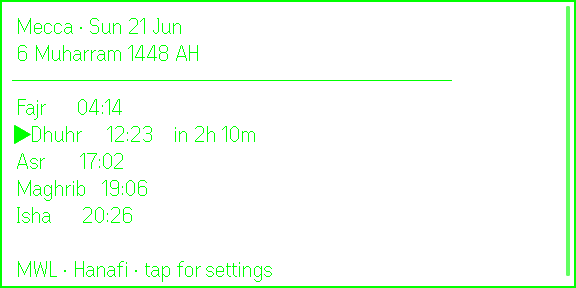
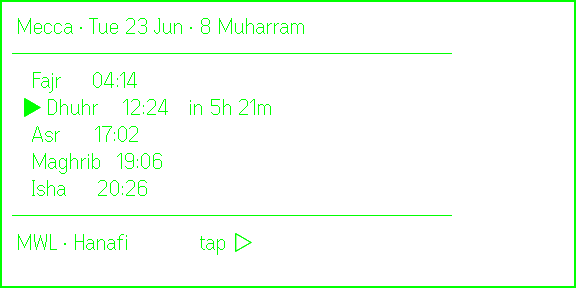
feat(salah): refine glasses UI — consolidated header, framed list, refreshed screenshots

diff --git a/src/format.ts b/src/format.ts
@@ -10,6 +10,14 @@ const NAME_COLUMN = 10
 /** How many rows to show at once in a picker (keeps the highlight on-screen). */
 export const PICKER_WINDOW = 5
 
+/** 4-char row prefix: indent + cursor or indent + blanks. Keeps every row's label aligned. */
+const CURSOR_ON = '  ▶ '
+const CURSOR_OFF = '    '
+/** Indented horizontal divider that visually frames each view. */
+const RULE = '─'.repeat(22)
+/** Approximate target width for left/right footer alignment (font isn't monospaced). */
+const FOOTER_WIDTH = 32
+
 /** Absolute instant → "HH:mm" in the given IANA timezone. */
 export function formatTime(instant: Date, timeZone: string): string {
   return new Intl.DateTimeFormat('en-GB', {
@@ -52,35 +60,54 @@ export function formatHijriDate(instant: Date, timeZone: string): string {
   return `${get('day')} ${get('month')} ${get('year')} AH`
 }
 
-/** Horizontal divider sized to span one line without wrapping in the firmware font. */
-const RULE = '─'.repeat(22)
+/** Hijri "day MonthName" (no year), e.g. "8 Muharram" — fits the consolidated header. */
+export function formatHijriShort(instant: Date, timeZone: string): string {
+  const parts = new Intl.DateTimeFormat('en-US-u-ca-islamic-umalqura', {
+    timeZone,
+    day: 'numeric',
+    month: 'long',
+  }).formatToParts(instant)
+  const get = (t: string) => parts.find((p) => p.type === t)?.value ?? ''
+  return `${get('day')} ${get('month')}`
+}
 
-/** The main prayer-list view: dated header, the five prayers (next marked), footer. */
+function padBetween(left: string, right: string, total: number): string {
+  const gap = Math.max(1, total - left.length - right.length)
+  return left + ' '.repeat(gap) + right
+}
+
+/** The main prayer-list view: dated header, top rule, five prayers, bottom rule, footer. */
 export function buildMainView(s: Schedule, settings: Settings): string {
   const today = s.entries[0]?.time ?? s.nextTime
-  const header = ` ${s.location.name} · ${formatGregorianDate(today, s.location.timeZone)}`
-  const hijri = ` ${formatHijriDate(today, s.location.timeZone)}`
+  const tz = s.location.timeZone
+  const greg = formatGregorianDate(today, tz)
+  const hijri = formatHijriShort(today, tz)
+  const header = ` ${s.location.name} · ${greg} · ${hijri}`
 
   const rows = s.entries.map((e) => {
-    const marker = e.name === s.nextName ? '▶' : ' '
-    let row = marker + e.name.padEnd(NAME_COLUMN) + formatTime(e.time, s.location.timeZone)
+    const cursor = e.name === s.nextName ? CURSOR_ON : CURSOR_OFF
+    let row = cursor + e.name.padEnd(NAME_COLUMN) + formatTime(e.time, tz)
     if (e.name === s.nextName) {
       row += '    in ' + formatCountdown(s.msUntilNext)
     }
     return row
   })
 
-  const footer = ` ${methodShort(settings.method)} · ${madhabShort(settings.madhab)} · tap for settings`
-  return [header, hijri, RULE, ...rows, '', footer].join('\n')
+  const footer = padBetween(
+    ` ${methodShort(settings.method)} · ${madhabShort(settings.madhab)}`,
+    'tap ▷',
+    FOOTER_WIDTH,
+  )
+  return [header, RULE, ...rows, RULE, footer].join('\n')
 }
 
 /** The settings menu — each row shows the setting and its current value. */
 export function buildMenuView(settings: Settings, menuIndex: number): string {
   const rows = MENU_ITEMS.map((item, i) => {
-    const marker = i === menuIndex ? '▶' : ' '
-    return marker + item.label.padEnd(NAME_COLUMN) + item.short(settings)
+    const cursor = i === menuIndex ? CURSOR_ON : CURSOR_OFF
+    return cursor + item.label.padEnd(NAME_COLUMN) + item.short(settings)
   })
-  return [' Settings', '', ...rows, '', ' tap open · 2x back'].join('\n')
+  return [' Settings', RULE, ...rows, RULE, ' tap open · 2x back'].join('\n')
 }
 
 /**
@@ -95,7 +122,7 @@ export function buildPickerView(title: string, options: Option[], index: number)
 
   const rows: string[] = []
   for (let i = start; i < start + windowSize; i++) {
-    rows.push((i === index ? '▶' : ' ') + options[i].label)
+    rows.push((i === index ? CURSOR_ON : CURSOR_OFF) + options[i].label)
   }
-  return [` ${title}`, '', ...rows, '', ' tap select · 2x back'].join('\n')
+  return [` ${title}`, RULE, ...rows, RULE, ' tap select · 2x back'].join('\n')
 }

diff --git a/src/format.test.ts b/src/format.test.ts
@@ -7,6 +7,7 @@ import {
   formatCountdown,
   formatGregorianDate,
   formatHijriDate,
+  formatHijriShort,
   formatTime,
 } from './format'
 import { computeSchedule } from './prayer'
@@ -51,25 +52,33 @@ describe('formatHijriDate', () => {
   })
 })
 
+describe('formatHijriShort', () => {
+  it('renders "D MonthName" without year or AH', () => {
+    expect(formatHijriShort(new Date('2026-06-21T09:00:00Z'), 'Asia/Riyadh')).toMatch(
+      /^\d{1,2} \w+$/,
+    )
+  })
+})
+
 describe('buildMainView', () => {
-  it('renders a dated header, hijri date, rule, five rows, marks next, and footer', () => {
+  it('renders a consolidated header, top rule, five rows, bottom rule, footer', () => {
     const s = computeSchedule(london, new Date('2026-06-18T15:00:00Z'), settings)
     const lines = buildMainView(s, settings).split('\n')
-    expect(lines).toHaveLength(10) // header + hijri + rule + 5 prayers + blank + footer
-    expect(lines[0]).toMatch(/^ London · [A-Za-z]{3} \d{1,2} \w{3}$/)
-    expect(lines[1]).toMatch(/ AH$/)
-    expect(lines[2]).toMatch(/^─+$/)
-    expect(lines[3]).toBe(' Fajr      01:02')
-    expect(lines.find((l) => l.startsWith('▶'))).toMatch(/^▶Asr {7}18:39 {4}in /)
-    expect(lines[9]).toBe(' MWL · Hanafi · tap for settings')
-    expect(lines.filter((l) => l.startsWith('▶'))).toHaveLength(1)
+    expect(lines).toHaveLength(9) // header + top rule + 5 prayers + bottom rule + footer
+    expect(lines[0]).toMatch(/^ London · [A-Za-z]{3} \d{1,2} \w{3} · \d{1,2} \w+$/)
+    expect(lines[1]).toMatch(/^─+$/)
+    expect(lines[2]).toBe('    Fajr      01:02')
+    expect(lines.find((l) => l.startsWith('  ▶ '))).toMatch(/^  ▶ Asr {7}18:39 {4}in /)
+    expect(lines[7]).toMatch(/^─+$/)
+    expect(lines[8]).toMatch(/^ MWL · Hanafi {2,}tap ▷$/)
+    expect(lines.filter((l) => l.startsWith('  ▶ '))).toHaveLength(1)
   })
 
   it('reflects a different method/madhab in the footer', () => {
     const alt: Settings = { ...DEFAULT_SETTINGS, cityId: 'london', method: 'Karachi', madhab: 'Shafi' }
     const s = computeSchedule(london, new Date('2026-06-18T15:00:00Z'), alt)
     const lines = buildMainView(s, alt).split('\n')
-    expect(lines[lines.length - 1]).toBe(' Krch · Shafi · tap for settings')
+    expect(lines[lines.length - 1]).toMatch(/^ Krch · Shafi {2,}tap ▷$/)
   })
 })
 
@@ -77,26 +86,30 @@ describe('buildMenuView', () => {
   it('lists settings with current values and marks the highlighted row', () => {
     const lines = buildMenuView(settings, 1).split('\n')
     expect(lines[0]).toBe(' Settings')
-    expect(lines).toContain(' City      London')
-    expect(lines).toContain('▶Method    MWL')
-    expect(lines).toContain(' Asr       Hanafi')
-    expect(lines.filter((l) => l.startsWith('▶'))).toHaveLength(1)
+    expect(lines[1]).toMatch(/^─+$/)
+    expect(lines).toContain('    City      London')
+    expect(lines).toContain('  ▶ Method    MWL')
+    expect(lines).toContain('    Asr       Hanafi')
+    expect(lines.filter((l) => l.startsWith('  ▶ '))).toHaveLength(1)
+    expect(lines[lines.length - 1]).toBe(' tap open · 2x back')
   })
 })
 
 describe('buildPickerView', () => {
   const methodOpts = METHODS.map((m) => ({ id: m.id, label: m.label }))
 
-  it('shows the title, marks the selection, and keeps it within the window', () => {
+  it('shows the title, top/bottom rules, marks the selection, and keeps it within the window', () => {
     const lines = buildPickerView('Method', methodOpts, 0).split('\n')
     expect(lines[0]).toBe(' Method')
-    expect(lines).toContain('▶Muslim World League')
-    expect(lines.filter((l) => l.startsWith('▶'))).toHaveLength(1)
+    expect(lines[1]).toMatch(/^─+$/)
+    expect(lines).toContain('  ▶ Muslim World League')
+    expect(lines.filter((l) => l.startsWith('  ▶ '))).toHaveLength(1)
+    expect(lines[lines.length - 1]).toBe(' tap select · 2x back')
   })
 
   it('windows around a deep selection so it stays visible', () => {
     const last = methodOpts.length - 1
     const lines = buildPickerView('Method', methodOpts, last).split('\n')
-    expect(lines).toContain('▶' + methodOpts[last].label)
+    expect(lines).toContain('  ▶ ' + methodOpts[last].label)
   })
 })